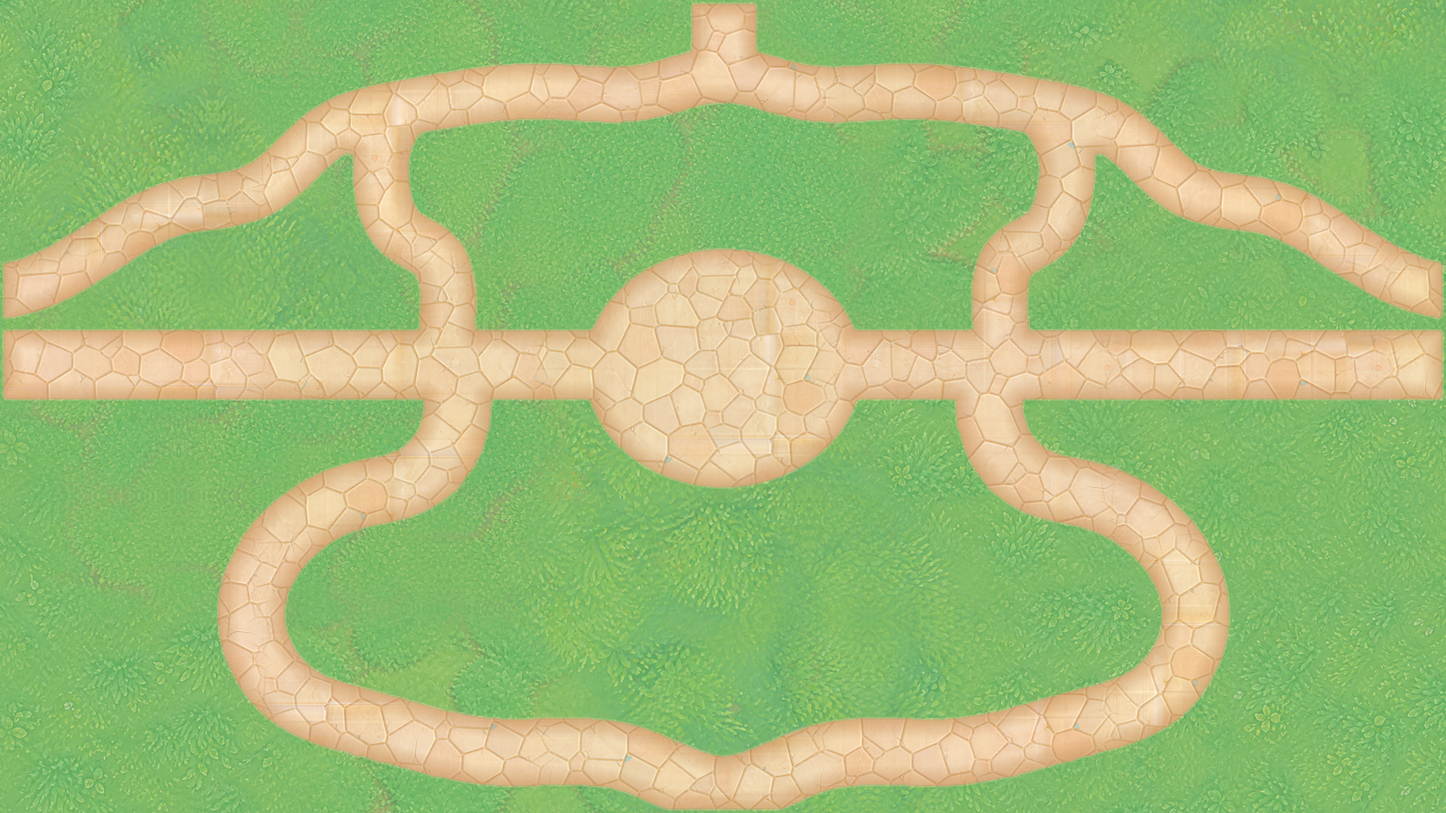
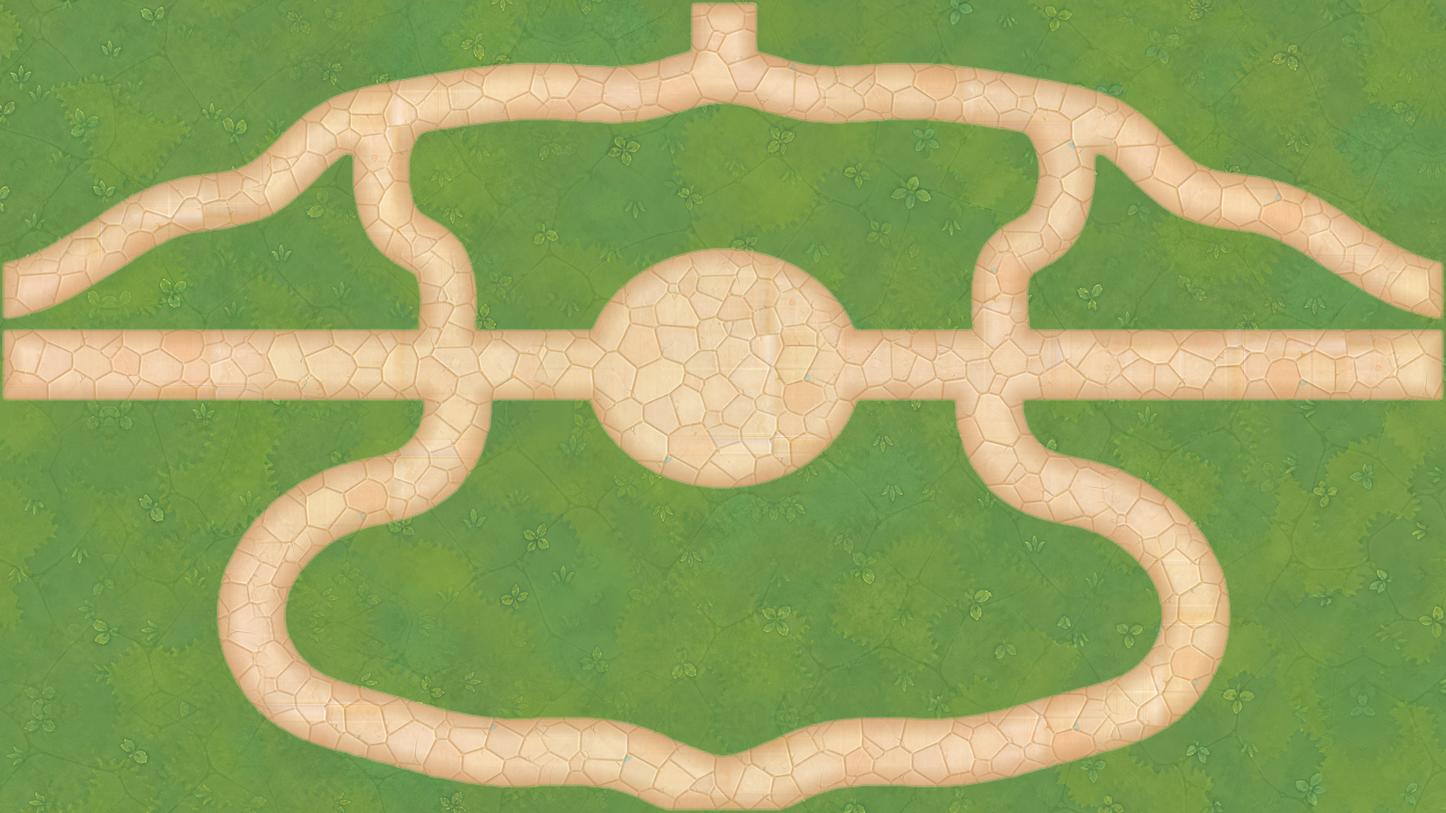
Match grass and lighting to concept

diff --git a/demo/main.js b/demo/main.js
@@ -29,7 +29,7 @@ renderer.setPixelRatio(isConstrainedDevice ? 1 : Math.min(window.devicePixelRati
 renderer.setSize(window.innerWidth, window.innerHeight);
 renderer.outputColorSpace = THREE.SRGBColorSpace;
 renderer.toneMapping = THREE.NeutralToneMapping;
-renderer.toneMappingExposure = 1.08;
+renderer.toneMappingExposure = 0.99;
 renderer.shadowMap.enabled = true;
 renderer.shadowMap.type = THREE.PCFSoftShadowMap;
 renderer.shadowMap.autoUpdate = !isConstrainedDevice;
@@ -80,13 +80,13 @@ function setCameraView(name) {
 
 setCameraView(params.get("view") === "top" ? "top" : "overview");
 
-const ambient = new THREE.AmbientLight(0xfff7e8, 0.32);
+const ambient = new THREE.AmbientLight(0xfff7e8, 0.3);
 scene.add(ambient);
 
-const hemisphere = new THREE.HemisphereLight(0xf4fffb, 0x91bd7c, 1.72);
+const hemisphere = new THREE.HemisphereLight(0xf4fffb, 0x91bd7c, 1.56);
 scene.add(hemisphere);
 
-const keyLight = new THREE.DirectionalLight(0xffefd2, 2.55);
+const keyLight = new THREE.DirectionalLight(0xffefd2, 2.3);
 keyLight.position.set(-6, 13, 8);
 keyLight.castShadow = true;
 keyLight.shadow.mapSize.set(isConstrainedDevice ? 1024 : 2048, isConstrainedDevice ? 1024 : 2048);
@@ -100,11 +100,11 @@ keyLight.shadow.bias = -0.00018;
 keyLight.shadow.normalBias = 0.022;
 scene.add(keyLight);
 
-const fillLight = new THREE.DirectionalLight(0x9beaff, 0.96);
+const fillLight = new THREE.DirectionalLight(0x9beaff, 0.82);
 fillLight.position.set(7, 7, -8);
 scene.add(fillLight);
 
-const frontFill = new THREE.DirectionalLight(0xffd9bd, 0.48);
+const frontFill = new THREE.DirectionalLight(0xffd9bd, 0.38);
 frontFill.position.set(0, 5, 10);
 scene.add(frontFill);
 
@@ -184,17 +184,17 @@ function countTriangles(root) {
 }
 
 const materialTuningByAsset = {
-  straightWall: { emissiveLift: 0.42, maxMetalness: 0, minRoughness: 0.82 },
-  cornerWall: { emissiveLift: 0.42, maxMetalness: 0, minRoughness: 0.82 },
-  flowerBush: { emissiveLift: 0.2, maxMetalness: 0.04, minRoughness: 0.76 },
-  roundedPlanter: { emissiveLift: 0.24, maxMetalness: 0.02, minRoughness: 0.74 },
+  straightWall: { emissiveLift: 0.28, maxMetalness: 0, minRoughness: 0.82 },
+  cornerWall: { emissiveLift: 0.28, maxMetalness: 0, minRoughness: 0.82 },
+  flowerBush: { emissiveLift: 0.13, maxMetalness: 0.04, minRoughness: 0.76 },
+  roundedPlanter: { emissiveLift: 0.13, maxMetalness: 0.02, minRoughness: 0.74 },
 };
 const mobileShadowExcludedAssets = new Set(["waterway"]);
 
 function prepareTemplate(gltfScene, targetHeight, assetKey) {
   const model = gltfScene;
   const tuning = materialTuningByAsset[assetKey] ?? {
-    emissiveLift: 0.075,
+    emissiveLift: 0.045,
     maxMetalness: 0.12,
     minRoughness: 0.66,
   };
@@ -406,7 +406,7 @@ async function buildScene() {
       if (!response.ok) throw new Error(`placement HTTP ${response.status}`);
       return response.json();
     }),
-    textureLoader.loadAsync("../01-floor-only-map.png?v=4"),
+    textureLoader.loadAsync("../01-floor-only-map.png?v=10"),
   ]);
 
   floorMap.colorSpace = THREE.SRGBColorSpace;
@@ -433,7 +433,7 @@ async function buildScene() {
     roughness: 0.94,
     metalness: 0,
   });
-  const floorSaturation = 0.72;
+  const floorSaturation = 0.9;
   floorMaterial.onBeforeCompile = (shader) => {
     shader.fragmentShader = shader.fragmentShader.replace(
       "#include <color_fragment>",
@@ -495,16 +495,16 @@ async function buildScene() {
   );
   const report = {
     ready: true,
-    floor: "2048x1152 v8",
+    floor: "2048x1152 v10 concept-matched grass",
     webOptimized: true,
     textureResolution: 1024,
-    lightingPreset: "bright-garden-v2-balanced",
+    lightingPreset: "pastel-garden-v3-muted",
     toneMapping: "Neutral",
     toneMappingExposure: renderer.toneMappingExposure,
     floorSaturation,
-    texturedMaterialAmbientLift: 0.075,
-    perimeterWallAmbientLift: 0.42,
-    roundedPlanterAmbientLift: 0.24,
+    texturedMaterialAmbientLift: 0.045,
+    perimeterWallAmbientLift: 0.28,
+    roundedPlanterAmbientLift: 0.13,
     naturalMaterialMaxMetalness: 0.12,
     shadowMode: isConstrainedDevice ? "static-PCFSoftShadowMap+contact" : "PCFSoftShadowMap",
     shadowMapSize: isConstrainedDevice ? 1024 : 2048,

diff --git a/demo/index.html b/demo/index.html
@@ -57,6 +57,6 @@
 
       <pre id="validation" hidden></pre>
     </main>
-    <script type="module" src="./main.js?v=8"></script>
+    <script type="module" src="./main.js?v=10"></script>
   </body>
 </html>
